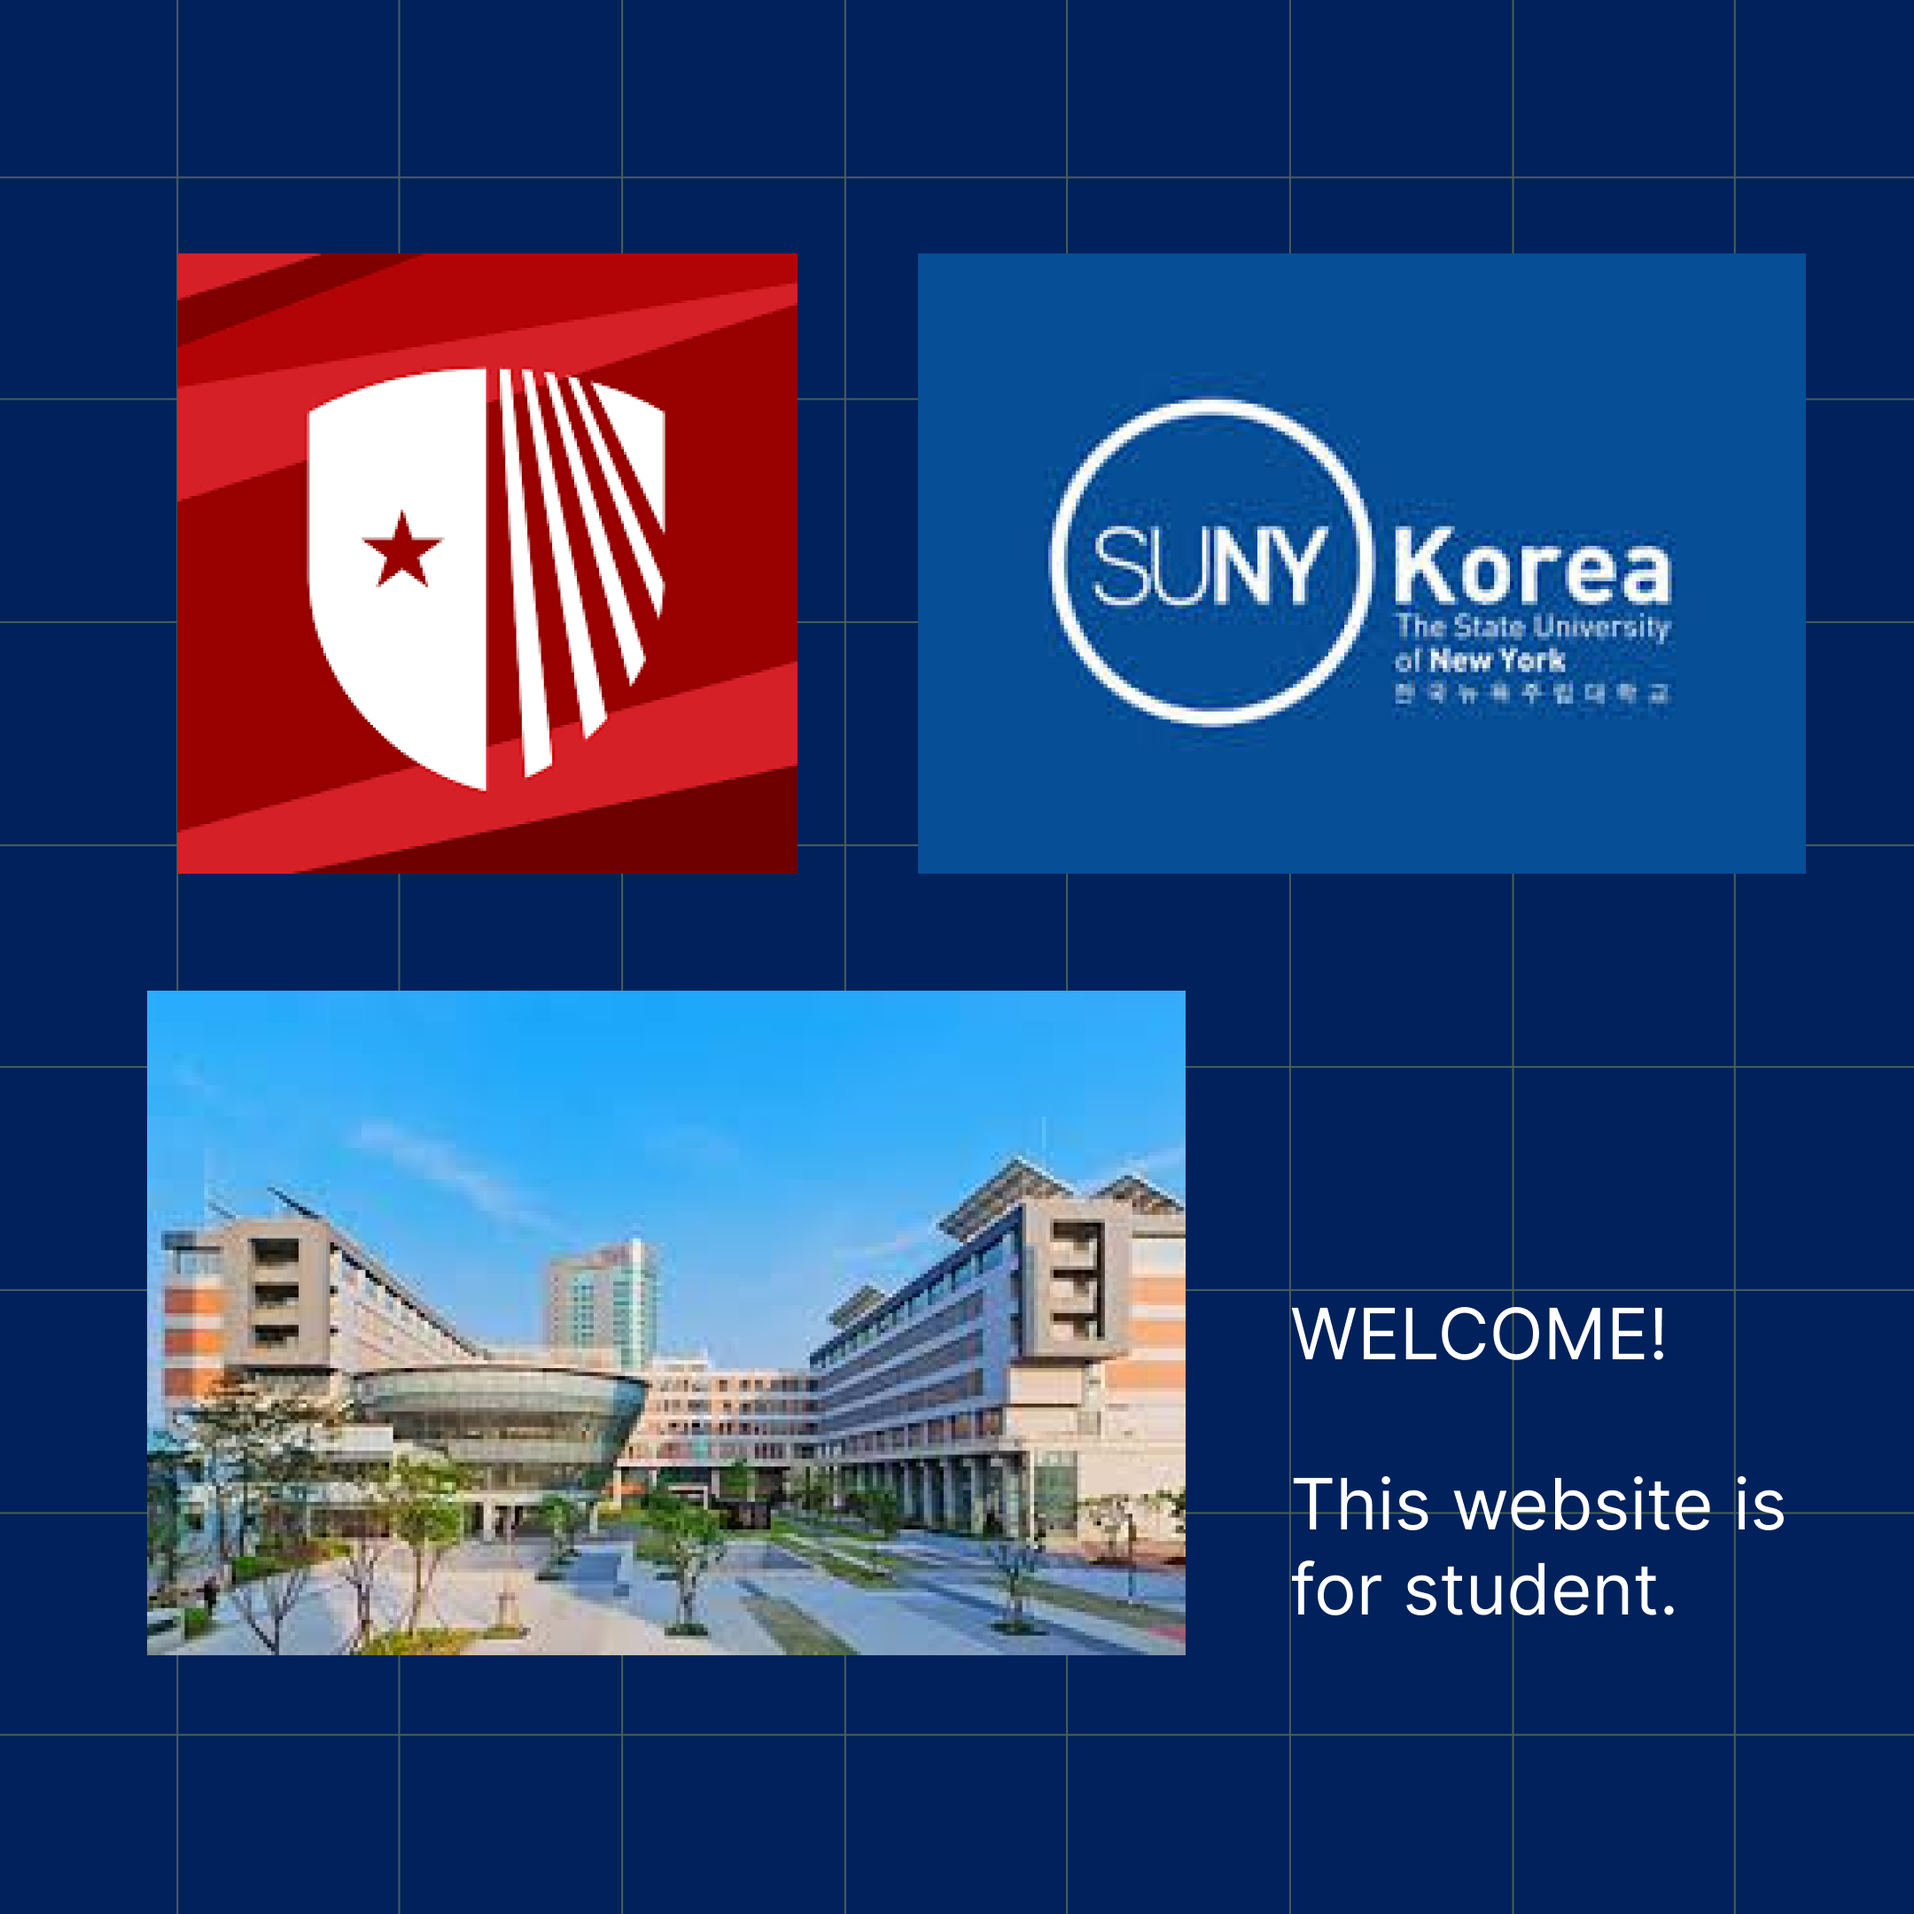
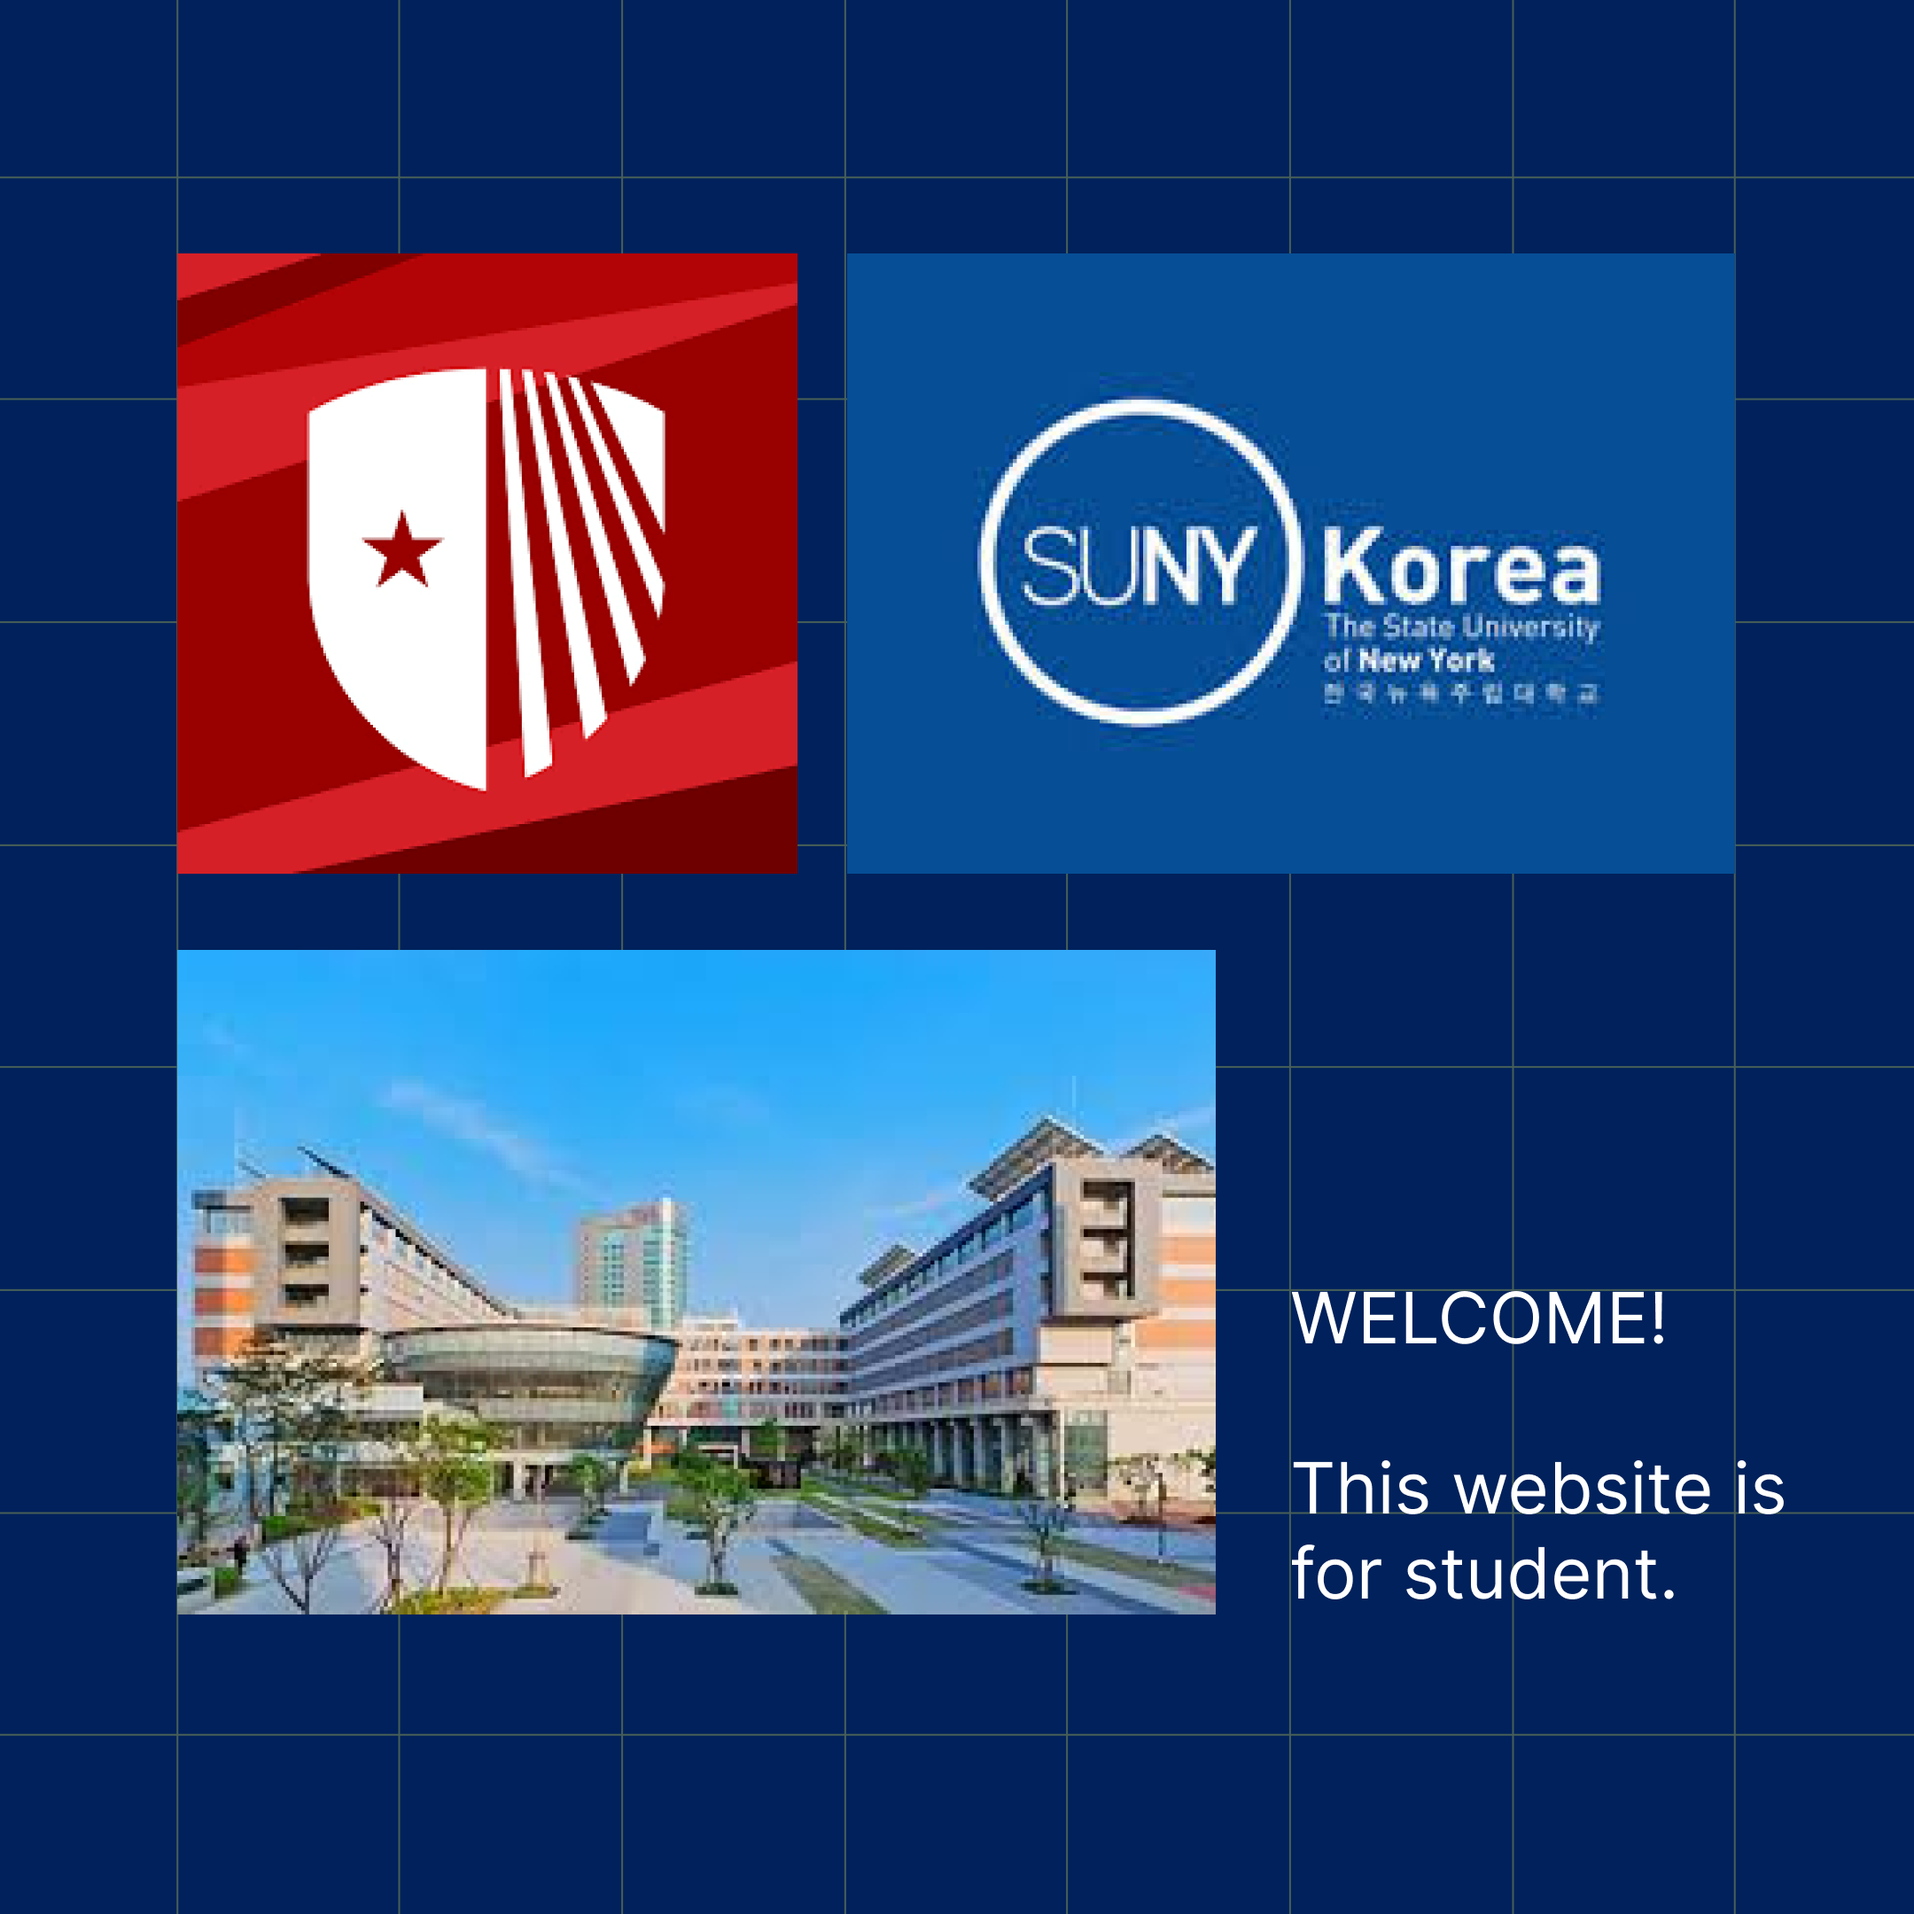
main image complete

diff --git a/fresh/src/css/main_page_style.css b/fresh/src/css/main_page_style.css
@@ -66,10 +66,15 @@
     background: #ffffffff;
   }
   .nodeBg-1224163 {
-    width: calc(867.0000168318338 * var(--ratio));
-    height: calc(791.767408626597 * var(--ratio));
+    /* width: calc(867.0000168318338 * var(--ratio));
+    height: calc(791.767408626597 * var(--ratio)); */
+    width: 100%;
+    height: 100%;
     left: calc(0 * var(--ratio));
-    top: calc(-135.38939011696613 * var(--ratio));
+    right: calc(0 * var(--ratio));
+    /* top: calc(-50.38939011696613 * var(--ratio)); */
+    top: calc(0 * var(--ratio));
+
     background-image: var(--image-0);
     background-size: contain;
     background-repeat: no-repeat;
